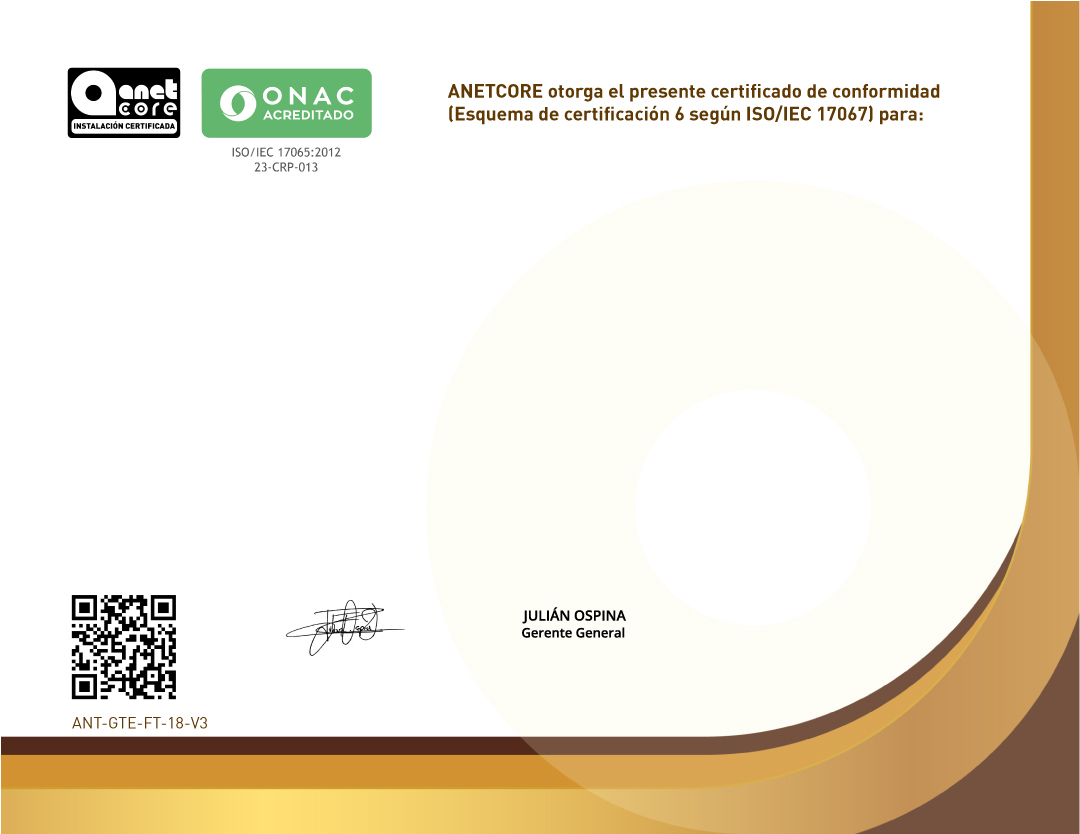
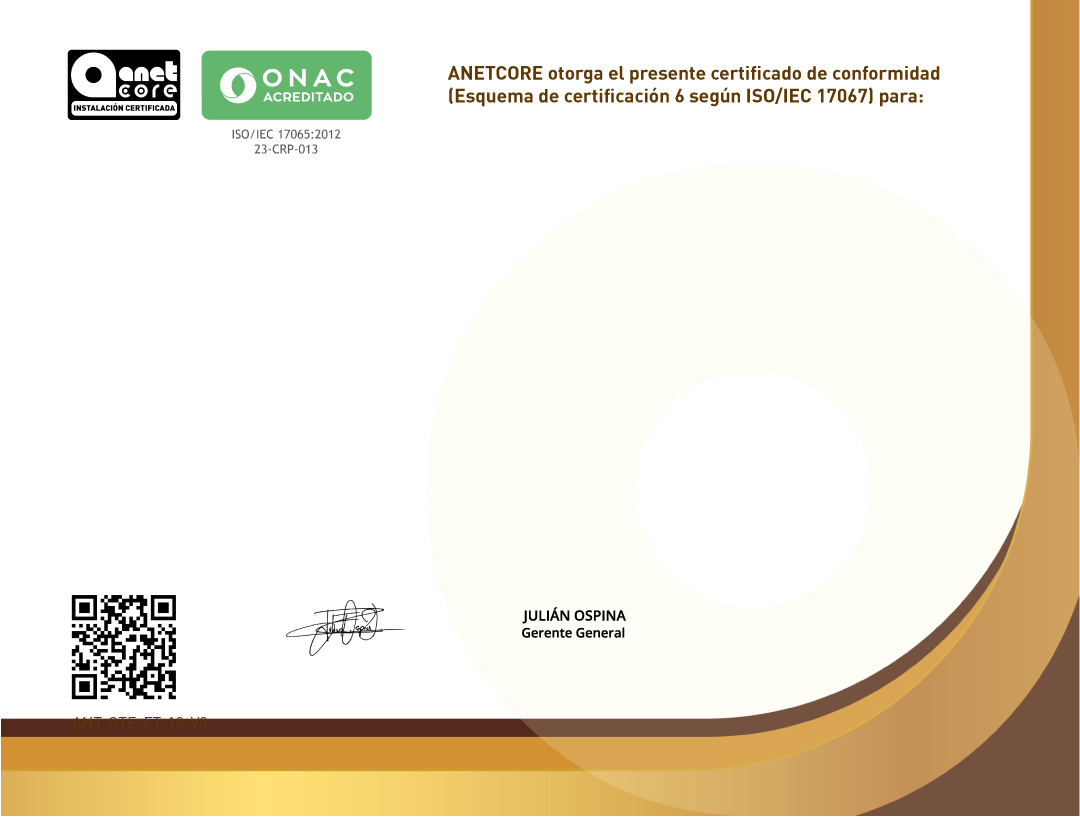
Actualizar imagen de fondo y plantilla certificado

diff --git a/templates/plantilla-certificado.html b/templates/plantilla-certificado.html
@@ -73,7 +73,7 @@
                 <table width="100%" cellpadding="0" cellspacing="0">
                     <tr>
                         <td style="text-align: center;">
-                            <div style="font-size: 9px; font-family: 'dinpro', Arial, sans-serif; color: #603904; margin-bottom: 5px;"><br><br>Este certificado es propiedad de ANTCORE y debe ser devuelto cuando sea solicitado por ANETCORE<br>
+                            <div style="font-size: 9px; font-family: 'dinpro', Arial, sans-serif; color: #603904; margin-bottom: 5px;"><br><br><br>Este certificado es propiedad de ANTCORE y debe ser devuelto cuando sea solicitado por ANETCORE<br>
                             Carrera 11a N. 94-46, Bogotá  Página web: <a href="https://anetcore.com/"> www.anetcore.com </a> comercial@anetcore.com</div>
                         </td>
                     </tr>
